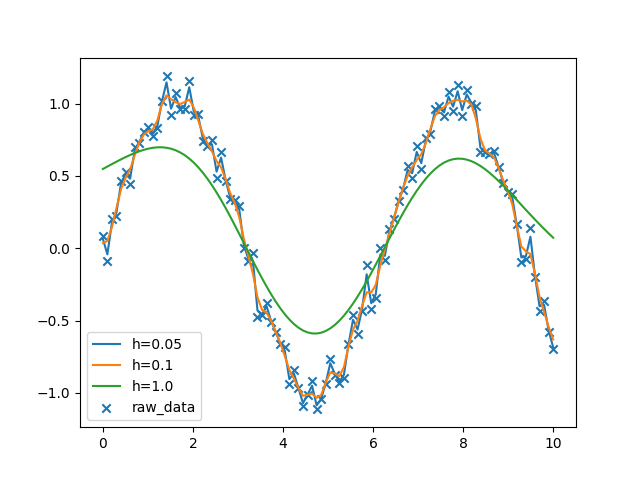
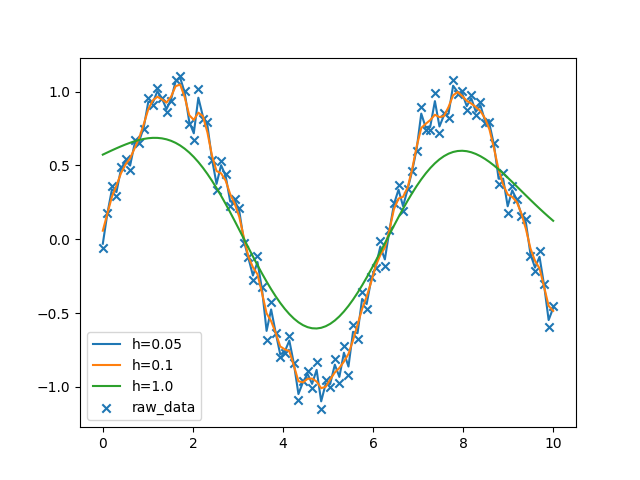
added local poly regression

diff --git a/exercises_03/local_linear_estimator.py b/exercises_03/local_linear_estimator.py
@@ -1,0 +1,114 @@
+from __future__ import division
+import numpy as np
+import pdb
+import pandas as pd
+import matplotlib.pyplot as plt
+import pdb
+from numpy.linalg import inv
+from kernel_smooth import gaussian_kernel
+from cross_validation import error_calc
+from scipy.optimize import minimize
+
+def local_poly_estimate(x_data, y_data,x_star,h, kernel = gaussian_kernel, d=2):
+    """
+
+    Description
+
+    Parameters
+    ----------
+    x_data: array_like
+        The x values from the observed data
+    y_data: array_like
+        The y values from the observed data
+    x_star: array_like
+        The x locations to make predictions for
+    h: Float
+        The bandwidth
+    kernel: func
+        The kernel function to use
+    d: int
+        The order of the polynomial
+
+    Returns
+    -------
+    y_star: array_like
+        The predicted y_values corresponding to x_star
+    H: array_like
+        The projection matrix 
+    """
+    #Creating numpy array versions of the x and y data so everything plays nicely
+    x = np.array(x_data)
+    y = np.array(y_data)
+
+    y_star = np.zeros(len(x_star))
+    #initialize H, the projection matrix
+    H = np.zeros([len(x_star), len(x_data)])
+    #Creating the R matrix
+    d = 2
+    for i,x_val in enumerate(x_star):
+        #Making the general R matrix
+        R = np.zeros([len(x),d])
+        for j in range(d):
+            R[:,j] = (x - x_val)**j
+        #Making the W matrix
+        W = np.diag(1/h * kernel((x-x_val)/h))
+
+        a_hat = inv(np.transpose(R)@W@R)@np.transpose(R)@W@y
+        H[i,:] = (inv(np.transpose(R)@W@R)@np.transpose(R)@W)[0,:]
+        y_star[i] = a_hat[0]
+
+
+    return y_star, H
+
+def leave_one_out(x_data, y_data, estimator,h, kernel=gaussian_kernel):
+    #Creating numpy array versions of the x and y data so everything plays nicely
+    x = np.array(x_data)
+    y = np.array(y_data)
+    error = np.zeros(len(x_data))
+    for i in range(len(x_data)):
+        y_star = estimator(np.delete(x,i), np.delete(y,i), [x[i]], h, kernel)[0]
+        error[i] = error_calc(y_star, [y_data[i]])
+    return np.mean(error)
+
+
+
+
+
+#First load the data
+df = pd.read_csv('utilities.csv')
+
+df = df.sort_values('temp').reset_index()
+#Getting desired x and y from the dataframe
+x_data = df['temp']
+y_data = df['gasbill']/df['billingdays']
+
+#Getting the optimal h
+h = minimize(lambda x: leave_one_out(x_data, y_data, local_poly_estimate, x), 1.0)['x']
+print(h)
+#Generating array of x values we want to predict
+#x_star = np.linspace(min(x_data),max(x_data),50)
+y_star, H = local_poly_estimate(x_data, y_data, x_data, h)
+
+#Getting the residuals
+residuals = y_data - y_star
+plt.scatter(x_data, residuals)
+plt.show()
+plt.close()
+
+#Determining the lower and upper bound to plot the fit
+RSS = (np.sum(residuals**2))**.5
+sigma_2 = RSS/(len(x_data) + 2*np.matrix.trace(H) + np.matrix.trace(np.transpose(H)@H))
+lower = y_star - 1.96*sigma_2**.5
+upper = y_star + 1.96*sigma_2**.5
+pdb.set_trace()
+
+
+#Making the plot of the estimate
+plt.scatter(x_data,y_data,marker='x')
+plt.plot(x_data,y_star,color='red')
+plt.plot(x_data,lower, color='red',linestyle='--')
+plt.plot(x_data,upper, color='red', linestyle='--')
+plt.show()
+plt.savefig('local_estimate')
+
+
